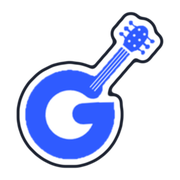
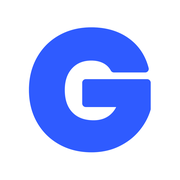
탭 아이콘을 파란 G 글자로 (기타 모양 대신)
Claude-Session: https://claude.ai/code/session_01Awb27cTQnokDXCtxPFit2J

diff --git a/improv/index.html b/improv/index.html
@@ -7,9 +7,9 @@
 <link rel="stylesheet" href="../theme.css">
 <meta name="description" content="유명한 코드 진행을 반복해서 들으며 초견과 즉흥연주를 연습하는 페이지 (12마디 블루스 · 마이너 블루스)">
 <title>즉흥연주 | 기타 MasTer</title>
-<link rel="icon" href="../favicon.ico" sizes="any">
-<link rel="icon" type="image/png" href="../favicon.png">
-<link rel="apple-touch-icon" href="../apple-touch-icon.png">
+<link rel="icon" href="../favicon.ico?v=2" sizes="any">
+<link rel="icon" type="image/png" href="../favicon.png?v=2">
+<link rel="apple-touch-icon" href="../apple-touch-icon.png?v=2">
 <link rel="preconnect" href="https://fonts.googleapis.com">
 <link rel="stylesheet" href="https://fonts.googleapis.com/css2?family=IBM+Plex+Sans+KR:wght@400;500;700&family=Black+Han+Sans&family=Noto+Music&display=swap">
 <style>body{margin:0}[hidden]{display:none!important}

diff --git a/chord/index.html b/chord/index.html
@@ -7,9 +7,9 @@
 <link rel="stylesheet" href="../theme.css">
 <meta name="description" content="코드 진행을 보고 박자에 맞춰 쳐 본 다음, 피아노 소리로 정답을 확인하는 코드 초견 연습">
 <title>코드 초견 | 기타 MasTer</title>
-<link rel="icon" href="../favicon.ico" sizes="any">
-<link rel="icon" type="image/png" href="../favicon.png">
-<link rel="apple-touch-icon" href="../apple-touch-icon.png">
+<link rel="icon" href="../favicon.ico?v=2" sizes="any">
+<link rel="icon" type="image/png" href="../favicon.png?v=2">
+<link rel="apple-touch-icon" href="../apple-touch-icon.png?v=2">
 <link rel="preconnect" href="https://fonts.googleapis.com">
 <link rel="stylesheet" href="https://fonts.googleapis.com/css2?family=IBM+Plex+Sans+KR:wght@400;500;700&family=Black+Han+Sans&family=Noto+Music&display=swap">
 <style>body{margin:0}[hidden]{display:none!important}

diff --git a/chords/index.html b/chords/index.html
@@ -7,9 +7,9 @@
 <link rel="stylesheet" href="../theme.css">
 <meta name="description" content="기타 코드표 — 기본 코드(메이저·마이너·7th), 하이 코드(바레), 7th 코드, 빈 코드표">
 <title>코드표 | 기타 MasTer</title>
-<link rel="icon" href="../favicon.ico" sizes="any">
-<link rel="icon" type="image/png" href="../favicon.png">
-<link rel="apple-touch-icon" href="../apple-touch-icon.png">
+<link rel="icon" href="../favicon.ico?v=2" sizes="any">
+<link rel="icon" type="image/png" href="../favicon.png?v=2">
+<link rel="apple-touch-icon" href="../apple-touch-icon.png?v=2">
 <link rel="preconnect" href="https://fonts.googleapis.com">
 <link rel="stylesheet" href="https://fonts.googleapis.com/css2?family=IBM+Plex+Sans+KR:wght@400;500;700&family=Black+Han+Sans&family=Noto+Music&display=swap">
 <style>body{margin:0}[hidden]{display:none!important}

diff --git a/metronome/index.html b/metronome/index.html
@@ -7,9 +7,9 @@
 <link rel="stylesheet" href="../theme.css">
 <meta name="description" content="빠르기·박자·첫 박 강세·탭 템포가 있는 간단한 온라인 메트로놈">
 <title>메트로놈 | 기타 MasTer</title>
-<link rel="icon" href="../favicon.ico" sizes="any">
-<link rel="icon" type="image/png" href="../favicon.png">
-<link rel="apple-touch-icon" href="../apple-touch-icon.png">
+<link rel="icon" href="../favicon.ico?v=2" sizes="any">
+<link rel="icon" type="image/png" href="../favicon.png?v=2">
+<link rel="apple-touch-icon" href="../apple-touch-icon.png?v=2">
 <link rel="preconnect" href="https://fonts.googleapis.com">
 <link rel="stylesheet" href="https://fonts.googleapis.com/css2?family=IBM+Plex+Sans+KR:wght@400;500;700&family=Black+Han+Sans&family=Noto+Music&display=swap">
 <style>body{margin:0}[hidden]{display:none!important}

diff --git a/harmony/index.html b/harmony/index.html
@@ -7,9 +7,9 @@
 <link rel="stylesheet" href="../theme.css">
 <meta name="description" content="화성학을 차근차근 익히는 페이지 (준비 중)">
 <title>화성학 | 기타 MasTer</title>
-<link rel="icon" href="../favicon.ico" sizes="any">
-<link rel="icon" type="image/png" href="../favicon.png">
-<link rel="apple-touch-icon" href="../apple-touch-icon.png">
+<link rel="icon" href="../favicon.ico?v=2" sizes="any">
+<link rel="icon" type="image/png" href="../favicon.png?v=2">
+<link rel="apple-touch-icon" href="../apple-touch-icon.png?v=2">
 <link rel="preconnect" href="https://fonts.googleapis.com">
 <link rel="stylesheet" href="https://fonts.googleapis.com/css2?family=IBM+Plex+Sans+KR:wght@400;500;700&family=Black+Han+Sans&family=Noto+Music&display=swap">
 <style>body{margin:0}[hidden]{display:none!important}

diff --git a/ear/index.html b/ear/index.html
@@ -9,9 +9,9 @@
 <style>body{margin:0}[hidden]{display:none!important}img{max-width:100%}
 </style>
 <title>멜로디 청음 | 기타 MasTer</title>
-<link rel="icon" href="../favicon.ico" sizes="any">
-<link rel="icon" type="image/png" href="../favicon.png">
-<link rel="apple-touch-icon" href="../apple-touch-icon.png">
+<link rel="icon" href="../favicon.ico?v=2" sizes="any">
+<link rel="icon" type="image/png" href="../favicon.png?v=2">
+<link rel="apple-touch-icon" href="../apple-touch-icon.png?v=2">
 <link rel="preconnect" href="https://fonts.googleapis.com">
 <link rel="stylesheet" href="https://fonts.googleapis.com/css2?family=IBM+Plex+Sans+KR:wght@400;500;700&family=Black+Han+Sans&family=Noto+Music&display=swap">
 <style>

diff --git a/chordear/index.html b/chordear/index.html
@@ -9,9 +9,9 @@
 <style>body{margin:0}[hidden]{display:none!important}img{max-width:100%}
 </style>
 <title>코드 청음 | 기타 MasTer</title>
-<link rel="icon" href="../favicon.ico" sizes="any">
-<link rel="icon" type="image/png" href="../favicon.png">
-<link rel="apple-touch-icon" href="../apple-touch-icon.png">
+<link rel="icon" href="../favicon.ico?v=2" sizes="any">
+<link rel="icon" type="image/png" href="../favicon.png?v=2">
+<link rel="apple-touch-icon" href="../apple-touch-icon.png?v=2">
 <link rel="preconnect" href="https://fonts.googleapis.com">
 <link rel="stylesheet" href="https://fonts.googleapis.com/css2?family=IBM+Plex+Sans+KR:wght@400;500;700&family=Black+Han+Sans&family=Noto+Music&display=swap">
 <style>

diff --git a/index.html b/index.html
@@ -9,9 +9,9 @@
 <style>body{margin:0}[hidden]{display:none!important}img{max-width:100%}
 </style>
 <title>기타 MasTer</title>
-<link rel="icon" href="favicon.ico" sizes="any">
-<link rel="icon" type="image/png" href="favicon.png">
-<link rel="apple-touch-icon" href="apple-touch-icon.png">
+<link rel="icon" href="favicon.ico?v=2" sizes="any">
+<link rel="icon" type="image/png" href="favicon.png?v=2">
+<link rel="apple-touch-icon" href="apple-touch-icon.png?v=2">
 <link rel="preconnect" href="https://fonts.googleapis.com">
 <link rel="stylesheet" href="https://fonts.googleapis.com/css2?family=IBM+Plex+Sans+KR:wght@400;500;700&family=Black+Han+Sans&family=Noto+Music&display=swap">
 <style>

diff --git a/book/index.html b/book/index.html
@@ -2,9 +2,9 @@
 <html lang="ko"><head><meta charset="utf-8">
 <meta name="viewport" content="width=device-width,initial-scale=1">
 <title>코드표 | 기타 MasTer</title>
-<link rel="icon" href="../favicon.ico" sizes="any">
-<link rel="icon" type="image/png" href="../favicon.png">
-<link rel="apple-touch-icon" href="../apple-touch-icon.png">
+<link rel="icon" href="../favicon.ico?v=2" sizes="any">
+<link rel="icon" type="image/png" href="../favicon.png?v=2">
+<link rel="apple-touch-icon" href="../apple-touch-icon.png?v=2">
 <meta http-equiv="refresh" content="0; url=../chords/">
 <link rel="canonical" href="../chords/">
 </head><body><p><a href="../chords/">코드표로 이동</a></p>
